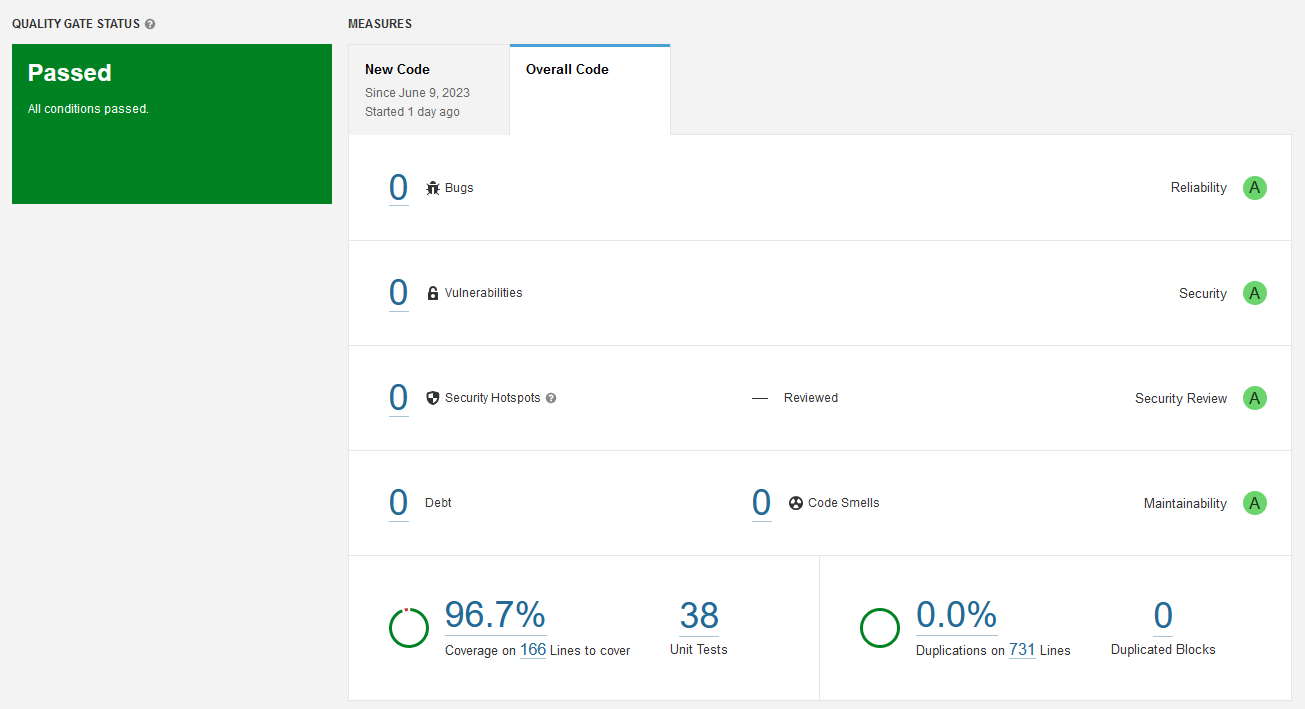
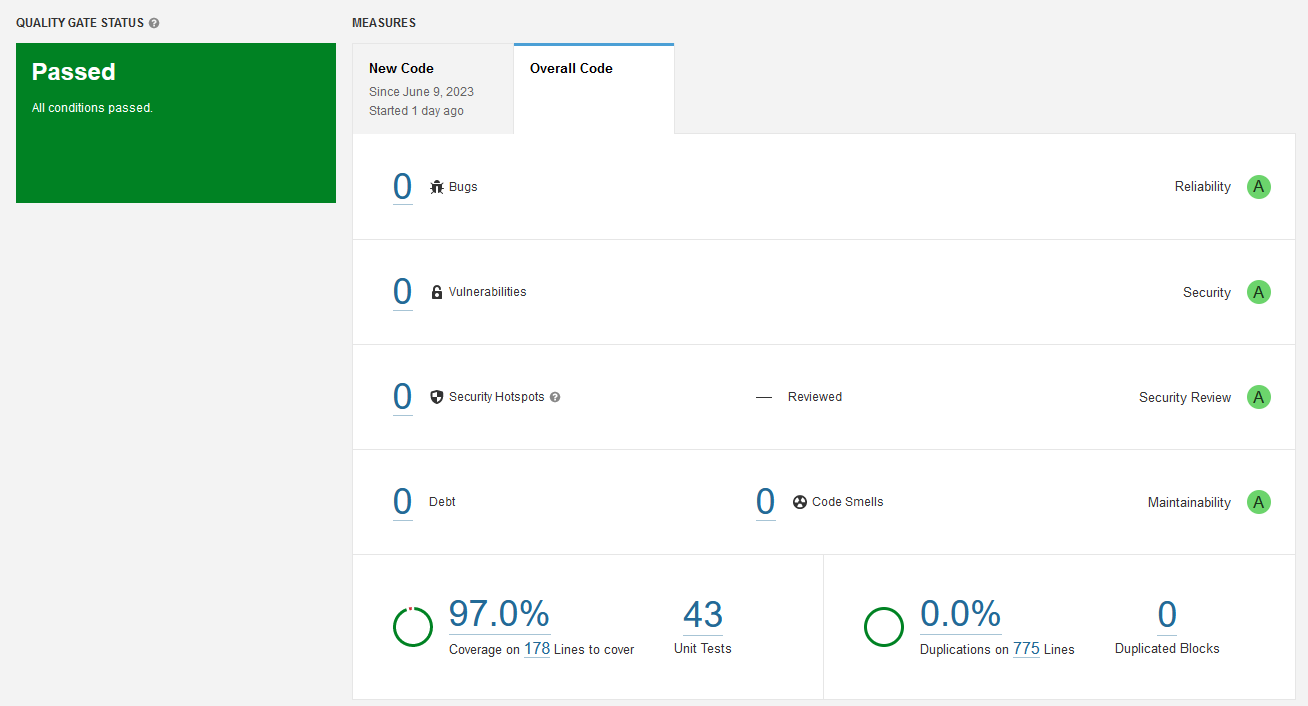
Added SelfReportingManagerConstraint

diff --git a/src/test/java/com/mc/employee/controller/EmployeeControllerSpringBootTest.java b/src/test/java/com/mc/employee/controller/EmployeeControllerSpringBootTest.java
@@ -111,7 +111,7 @@ class EmployeeControllerSpringBootTest {
 
 	@SneakyThrows
 	@Test
-	void testAddEmployeeMissingNameField() {
+	void testAddEmployee_MissingNameField() {
 		Employee employee = EmployeeTestFactory.buildDeveloper(1L, 2L);
 		
 		EmployeeView employeeView = EmployeeTestFactory.buildDeveloperView(1L, 2L);
@@ -135,7 +135,7 @@ class EmployeeControllerSpringBootTest {
 	
 	@SneakyThrows
 	@Test
-	void testAddEmployeeDifferentDepartment() {
+	void testAddEmployee_DifferentDepartment() {
 		Employee employee = EmployeeTestFactory.buildDeveloper(1L, 2L);
 		
 		EmployeeView employeeView = EmployeeTestFactory.buildDeveloperView(1L, 2L);
@@ -157,62 +157,6 @@ class EmployeeControllerSpringBootTest {
 				.andExpect(status().isBadRequest())
 				.andExpect(jsonPath("$[0].error").exists())
 				.andExpect(jsonPath("$[0].error", is("employeeView: The direct reports of a Manager must belong to the same Department of the Manager")));
-	}
-	
-	@SneakyThrows
-	@Test
-	void testUpdateEmployee() {
-		Employee employee = EmployeeTestFactory.buildDeveloper(1L, 2L);
-		EmployeeView employeeView = EmployeeTestFactory.buildDeveloperView(1L, 2L);
-		EmployeeRequest request = EmployeeRequest.builder().employeeView(employeeView).build();
-		
-		when(employeeService.findById(employeeView.getId())).thenReturn(employee);
-		when(employeeService.findById(employeeView.getReportingManager().getId())).thenReturn(employee.getReportingManager());
-		when(employeeService.convertToView(employee.getReportingManager())).thenReturn(employeeView.getReportingManager());
-		when(employeeService.save(employee)).thenReturn(employee);
-		when(employeeService.convertToView(employee)).thenReturn(employeeView);
-		
-		mockMvc.perform(put(EMPLOYEE_BASE_PATH)
-					.content(objectMapper.writeValueAsString(request))
-					.contentType(MediaType.APPLICATION_JSON))
-				.andDo(print())
-				.andExpect(status().isOk())
-				.andExpect(jsonPath("$.name").exists())
-				.andExpect(content().string((containsString("Developer 1"))))
-				.andExpect(content().string((containsString("Manager 2"))))
-				.andExpect(jsonPath("$.*", hasSize(8)));
-	}
-
-	@SneakyThrows
-	@Test
-	void testDelete() {
-		EmployeeView employeeView = EmployeeTestFactory.buildDeveloperView(1L, 2L);
-		EmployeeRequest request = EmployeeRequest.builder().employeeView(employeeView).build();
-		
-		when(employeeService.exists(employeeView.getId())).thenReturn(true);
-		
-		mockMvc.perform(delete(EMPLOYEE_BASE_PATH + "/" + employeeView.getId())
-					.content(objectMapper.writeValueAsString(request))
-					.contentType(MediaType.APPLICATION_JSON))
-				.andDo(print())
-				.andExpect(status().isNoContent());
-	}
-
-	@SneakyThrows
-	@Test
-	void testDeleteEmployeeNotFoundException() {
-		EmployeeView employeeView = EmployeeTestFactory.buildDeveloperView(33L, 2L);
-		EmployeeRequest request = EmployeeRequest.builder().employeeView(employeeView).build();
-		
-		when(employeeService.exists(employeeView.getId())).thenReturn(false);
-		
-		mockMvc.perform(delete(EMPLOYEE_BASE_PATH + "/" + employeeView.getId())
-				.content(objectMapper.writeValueAsString(request))
-					.contentType(MediaType.APPLICATION_JSON))
-				.andDo(print())
-				.andExpect(status().isNotFound())
-				.andExpect(jsonPath("$.error").exists())
-				.andExpect(jsonPath("$.error", is("Employee id 33 not found.")));
 	}
 	
 	@SneakyThrows
@@ -261,5 +205,82 @@ class EmployeeControllerSpringBootTest {
 				.andExpect(status().isInternalServerError())
 				.andExpect(jsonPath("$.error").exists())
 				.andExpect(jsonPath("$.error", is(exceptionMessage)));
+	}
+	
+	@SneakyThrows
+	@Test
+	void testUpdateEmployee() {
+		Employee employee = EmployeeTestFactory.buildDeveloper(1L, 2L);
+		EmployeeView employeeView = EmployeeTestFactory.buildDeveloperView(1L, 2L);
+		EmployeeRequest request = EmployeeRequest.builder().employeeView(employeeView).build();
+		
+		when(employeeService.findById(employeeView.getId())).thenReturn(employee);
+		when(employeeService.findById(employeeView.getReportingManager().getId())).thenReturn(employee.getReportingManager());
+		when(employeeService.convertToView(employee.getReportingManager())).thenReturn(employeeView.getReportingManager());
+		when(employeeService.save(employee)).thenReturn(employee);
+		when(employeeService.convertToView(employee)).thenReturn(employeeView);
+		
+		mockMvc.perform(put(EMPLOYEE_BASE_PATH)
+					.content(objectMapper.writeValueAsString(request))
+					.contentType(MediaType.APPLICATION_JSON))
+				.andDo(print())
+				.andExpect(status().isOk())
+				.andExpect(jsonPath("$.name").exists())
+				.andExpect(content().string((containsString("Developer 1"))))
+				.andExpect(content().string((containsString("Manager 2"))))
+				.andExpect(jsonPath("$.*", hasSize(8)));
+	}
+	
+	@SneakyThrows
+	@Test
+	void testUpdateEmployee_SelfReportingManagerConstraint() {
+		Employee employee = EmployeeTestFactory.buildDeveloper(1L, 1L);
+		EmployeeView employeeView = EmployeeTestFactory.buildDeveloperView(1L, 1L);
+		EmployeeRequest request = EmployeeRequest.builder().employeeView(employeeView).build();
+		
+		when(employeeService.convertToEmployee(employeeView)).thenReturn(employee);
+		when(employeeService.convertToView(employee.getReportingManager())).thenReturn(employeeView);
+		
+		when(employeeService.findById(employee.getReportingManager().getId())).thenReturn(employee.getReportingManager());
+		
+		mockMvc.perform(post(EMPLOYEE_BASE_PATH)
+					.content(objectMapper.writeValueAsString(request))
+					.contentType(MediaType.APPLICATION_JSON))
+				.andDo(print())
+				.andExpect(status().isBadRequest())
+				.andExpect(jsonPath("$.[0]error").exists())
+				.andExpect(jsonPath("$.[0]error", is("employeeView: An employee cannot have self as reporting manager.")));
+	}
+
+	@SneakyThrows
+	@Test
+	void testDelete() {
+		EmployeeView employeeView = EmployeeTestFactory.buildDeveloperView(1L, 2L);
+		EmployeeRequest request = EmployeeRequest.builder().employeeView(employeeView).build();
+		
+		when(employeeService.exists(employeeView.getId())).thenReturn(true);
+		
+		mockMvc.perform(delete(EMPLOYEE_BASE_PATH + "/" + employeeView.getId())
+					.content(objectMapper.writeValueAsString(request))
+					.contentType(MediaType.APPLICATION_JSON))
+				.andDo(print())
+				.andExpect(status().isNoContent());
+	}
+
+	@SneakyThrows
+	@Test
+	void testDelete_EmployeeNotFoundException() {
+		EmployeeView employeeView = EmployeeTestFactory.buildDeveloperView(33L, 2L);
+		EmployeeRequest request = EmployeeRequest.builder().employeeView(employeeView).build();
+		
+		when(employeeService.exists(employeeView.getId())).thenReturn(false);
+		
+		mockMvc.perform(delete(EMPLOYEE_BASE_PATH + "/" + employeeView.getId())
+				.content(objectMapper.writeValueAsString(request))
+					.contentType(MediaType.APPLICATION_JSON))
+				.andDo(print())
+				.andExpect(status().isNotFound())
+				.andExpect(jsonPath("$.error").exists())
+				.andExpect(jsonPath("$.error", is("Employee id 33 not found.")));
 	}
 }

diff --git a/src/test/java/com/mc/employee/validation/SelfReportingManagerValidatorTest.java b/src/test/java/com/mc/employee/validation/SelfReportingManagerValidatorTest.java
@@ -1,0 +1,61 @@
+package com.mc.employee.validation;
+
+import static org.junit.Assert.assertFalse;
+import static org.junit.Assert.assertTrue;
+
+import org.junit.jupiter.api.Test;
+import org.junit.jupiter.api.extension.ExtendWith;
+import org.mockito.InjectMocks;
+import org.mockito.Mock;
+import org.mockito.junit.jupiter.MockitoExtension;
+
+import com.mc.employee.util.EmployeeTestFactory;
+import com.mc.employee.view.EmployeeView;
+
+import jakarta.validation.ConstraintValidatorContext;
+
+@ExtendWith(MockitoExtension.class)
+class SelfReportingManagerValidatorTest {
+
+	@InjectMocks
+	private SelfReportingManagerValidator validator;
+
+	@Mock
+	private ConstraintValidatorContext context;
+	
+	@Test
+	void testIsNotValid() {
+		EmployeeView employeeView = EmployeeTestFactory.buildDeveloperView(2L, 2L);
+		
+		boolean isValid = validator.isValid(employeeView, context);
+		
+		assertFalse(isValid);
+	}
+	
+	@Test
+	void testIsValid() {
+		EmployeeView employeeView = EmployeeTestFactory.buildDeveloperView(2L, 1L);
+		
+		boolean isValid = validator.isValid(employeeView, context);
+		
+		assertTrue(isValid);
+	}
+	
+	@Test
+	void testIsValid_NoReportingManager() {
+		EmployeeView employeeView = EmployeeTestFactory.buildDeveloperView(2L);
+		
+		boolean isValid = validator.isValid(employeeView, context);
+		
+		assertTrue(isValid);
+	}
+	
+	@Test
+	void testIsValid_AddEmployee() {
+		EmployeeView employeeView = EmployeeTestFactory.buildDeveloperView(null, 1L);
+		
+		boolean isValid = validator.isValid(employeeView, context);
+		
+		assertTrue(isValid);
+	}
+}

diff --git a/src/main/java/com/mc/employee/validation/SelfReportingManagerValidator.java b/src/main/java/com/mc/employee/validation/SelfReportingManagerValidator.java
@@ -1,0 +1,35 @@
+package com.mc.employee.validation;
+
+import org.springframework.stereotype.Component;
+
+import com.mc.employee.view.EmployeeView;
+
+import jakarta.validation.ConstraintValidator;
+import jakarta.validation.ConstraintValidatorContext;
+import lombok.RequiredArgsConstructor;
+import lombok.extern.slf4j.Slf4j;
+
+@RequiredArgsConstructor
+@Component
+@Slf4j
+public class SelfReportingManagerValidator implements ConstraintValidator<SelfReportingManagerConstraint, EmployeeView> {
+	@Override
+	public boolean isValid(EmployeeView employee, ConstraintValidatorContext context) {
+		boolean isValid = false;
+		
+		if (employee.getReportingManager() == null) {
+			log.debug("No reporting manager for employee e-mail={}, the self reporting manager validation is not required.", employee.getEmail());
+			isValid = true;
+			
+		} else if (employee.getId() == null) {
+			log.debug("Employee ID is null, the self reporting manager validation is not required when adding new employees.", employee.getEmail());
+			isValid = true;
+			
+		} else {
+			log.info("Validating if the employee reporting manager being updated is not self.");
+			isValid = !employee.getId().equals(employee.getReportingManager().getId());
+		}
+		
+		return isValid;
+	}
+}

diff --git a/src/main/java/com/mc/employee/validation/SelfReportingManagerConstraint.java b/src/main/java/com/mc/employee/validation/SelfReportingManagerConstraint.java
@@ -1,0 +1,22 @@
+package com.mc.employee.validation;
+
+import java.lang.annotation.Documented;
+import java.lang.annotation.ElementType;
+import java.lang.annotation.Retention;
+import java.lang.annotation.RetentionPolicy;
+import java.lang.annotation.Target;
+
+import jakarta.validation.Constraint;
+import jakarta.validation.Payload;
+
+@Target({ ElementType.TYPE, ElementType.ANNOTATION_TYPE })
+@Retention(RetentionPolicy.RUNTIME)
+@Constraint(validatedBy = SelfReportingManagerValidator.class)
+@Documented
+public @interface SelfReportingManagerConstraint {
+	String message() default "An employee cannot have self as reporting manager.";
+
+	Class<?>[] groups() default {};
+
+	Class<? extends Payload>[] payload() default {};
+}

diff --git a/src/main/java/com/mc/employee/view/EmployeeView.java b/src/main/java/com/mc/employee/view/EmployeeView.java
@@ -6,6 +6,7 @@ import java.time.LocalDate;
 import com.mc.employee.entity.Department;
 import com.mc.employee.entity.EmployeeRole;
 import com.mc.employee.validation.SameDepartmentConstraint;
+import com.mc.employee.validation.SelfReportingManagerConstraint;
 
 import io.swagger.v3.oas.annotations.media.Schema;
 import jakarta.validation.constraints.NotNull;
@@ -18,6 +19,7 @@ import lombok.NoArgsConstructor;
  * View Object that is used to send and receive data from the endpoints.   
  */
 @SameDepartmentConstraint
+@SelfReportingManagerConstraint
 @Data
 @Builder
 @AllArgsConstructor

diff --git a/src/test/java/com/mc/employee/util/EmployeeTestFactory.java b/src/test/java/com/mc/employee/util/EmployeeTestFactory.java
@@ -40,7 +40,22 @@ public class EmployeeTestFactory {
 		
 		return manager;
 	}
+
+	/**
+	 * Creates employeeView without manager.
+	 */
+	public static EmployeeView buildDeveloperView(Long employeeId) {
+		return buildDeveloperView(employeeId, null);
+	}
 	
+	/**
+	 * Creates employee without ID.
+	 */
+	public static EmployeeView buildDeveloperView() {
+		return buildDeveloperView(null, null);
+	}
+
+
 	public static EmployeeView buildDeveloperView(Long employeeId, Long managerId) {
 		return EmployeeView.builder()
 				.name("Developer " + employeeId)
